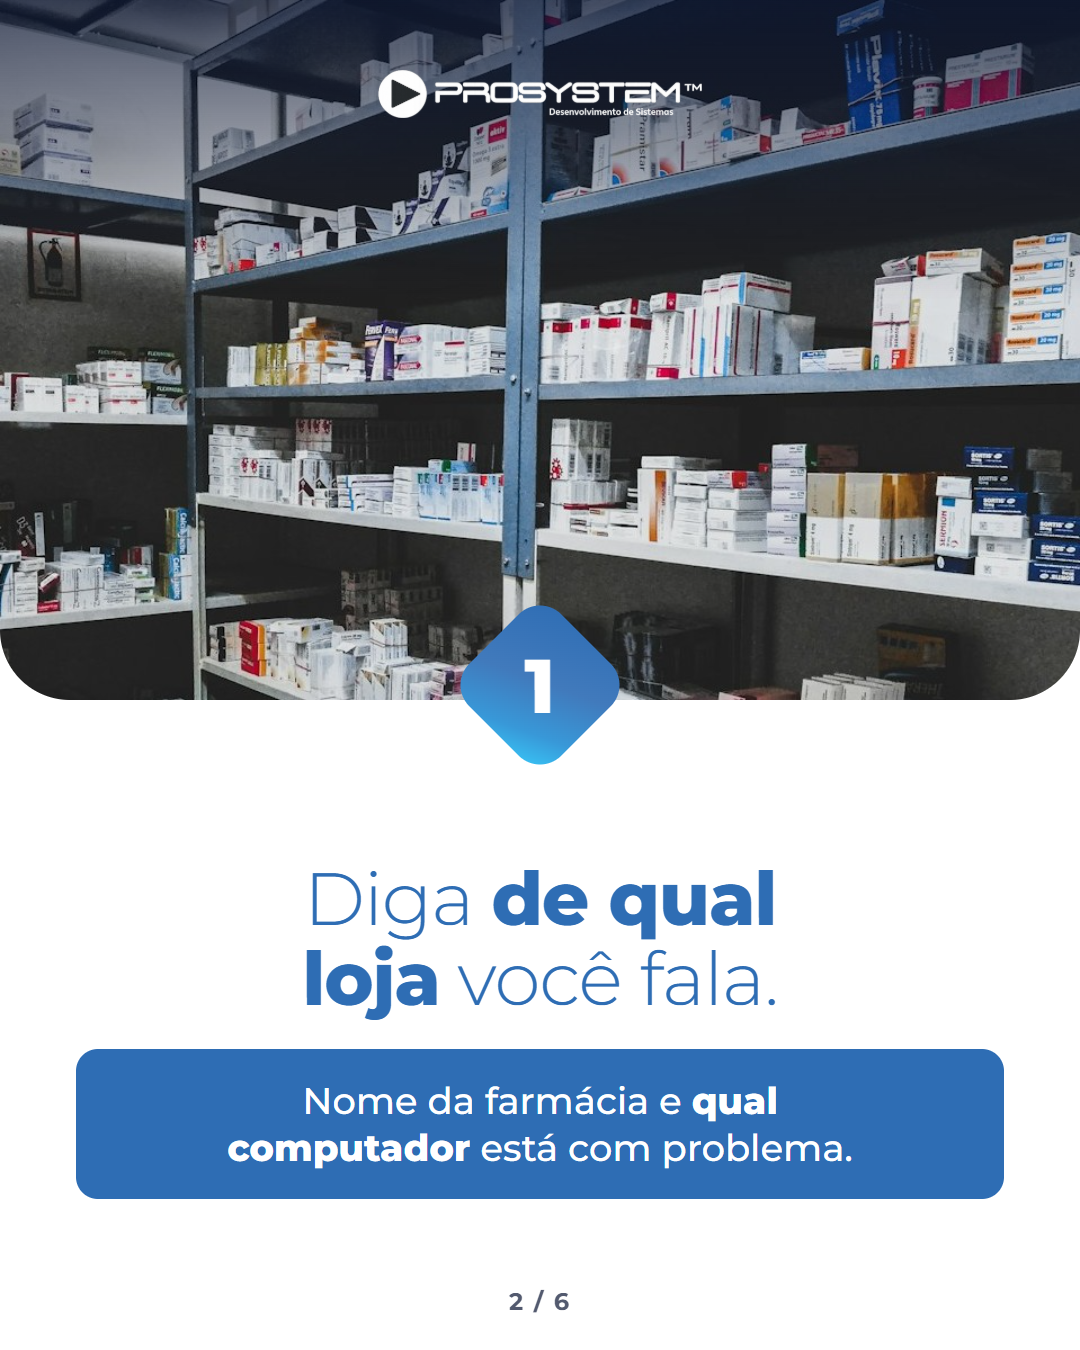
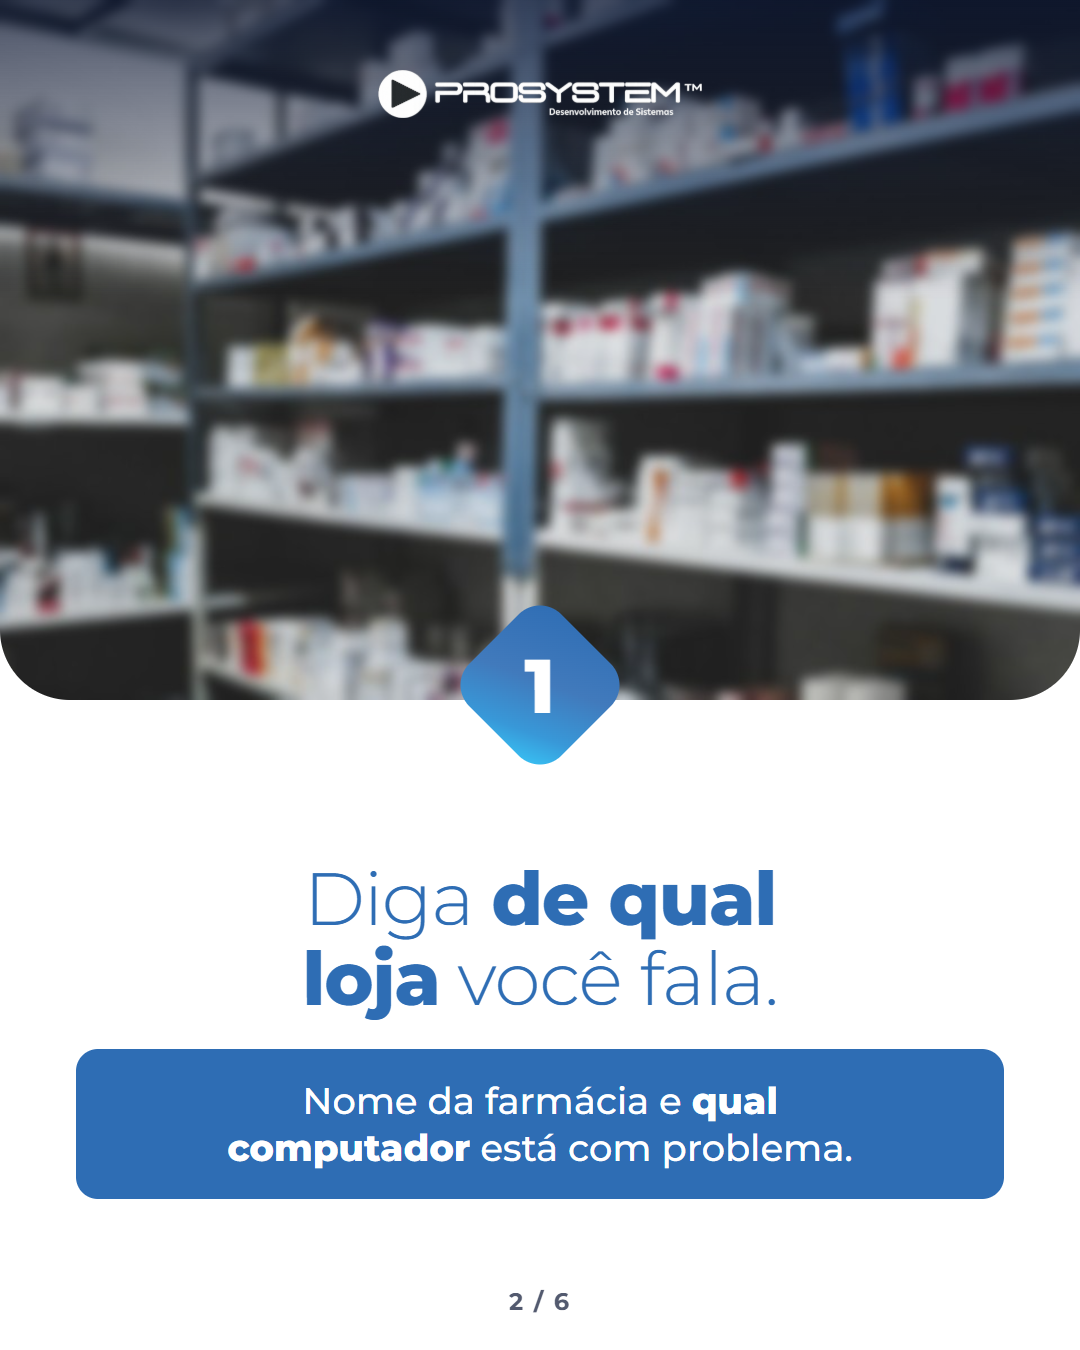
Carrossel do suporte: desfoca prateleira para não deixar marca de medicamento legível

diff --git a/docs/contexto/relatorios/2026-10-30-carrossel-suporte.md b/docs/contexto/relatorios/2026-10-30-carrossel-suporte.md
@@ -13,8 +13,8 @@ Antes disso ela pediu: "Depois preciso de posts para o google, junto como o edit
 - Base de conhecimento, artigo do acesso remoto (atualizado em 18/05/2023): o cliente abre o programa e informa ao técnico o número de "Este Dispositivo". Esse artigo é a fonte da página 4.
 - Horário do suporte: vem de `docs/design/caderno-de-marca/project/decisoes.md`.
 - Gerador sem estouro de texto. Folha de contato revisada.
-- Páginas 2 e 6 vistas em tamanho real. Na 2 apareceu marca de medicamento em uma caixa, e a foto foi recortada.
-- Não verificado: páginas 1, 3, 4 e 5 em tamanho real; aparência em um celular de verdade; se o artigo de 2023 ainda vale; licença das fotos novas, lida só nos dados da Wikimedia Commons.
+- Páginas 1, 2, 5 e 6 vistas em tamanho real. Na 2 apareceram marcas de medicamento nas caixas, e a foto foi recortada e desfocada.
+- Não verificado: páginas 3 e 4 em tamanho real (vistas só na folha de contato); aparência em um celular de verdade; se o artigo de 2023 ainda vale; licença das fotos novas, lida só nos dados da Wikimedia Commons.
 
 ## Decisões e porquês
 - **Só o assunto foi aproveitado.** Texto, layout e fotos são nossos. Nem o nome nem a peça do concorrente aparecem no material.

diff --git a/outputs/criativos/suporte/fotos/CREDITOS.md b/outputs/criativos/suporte/fotos/CREDITOS.md
@@ -5,4 +5,4 @@ Wikimedia Commons, conferir a licença na página de cada arquivo.
 - `teclado-azul.jpg`: Soumil Kumar, CC0, https://commons.wikimedia.org/wiki/File:Hand_on_computer_keyboard.jpg
 - `maos-teclado-mesa.jpg`: Ed Gregory, CC0, https://commons.wikimedia.org/wiki/File:Hands-woman-apple-desk.jpg
 - `maos-digitando.jpg`: William Iven firmbee, CC0, https://commons.wikimedia.org/wiki/File:Woman_typing_at_a_computer_(Unsplash).png (recortada para tirar o computador e o logo)
-- `prateleiras-recorte.jpg`: recorte de `prateleiras-escuras.jpg`, Árpád Czapp, licença Unsplash, créditos em `outputs/criativos/modelos/carrossel/fotos/CREDITOS.md`. Recortada para tirar a caixa com marca de medicamento.
+- `prateleiras-recorte.jpg`: recorte de `prateleiras-escuras.jpg`, Árpád Czapp, licença Unsplash, créditos em `outputs/criativos/modelos/carrossel/fotos/CREDITOS.md`. Recortada e desfocada para não deixar marca de medicamento legível.
